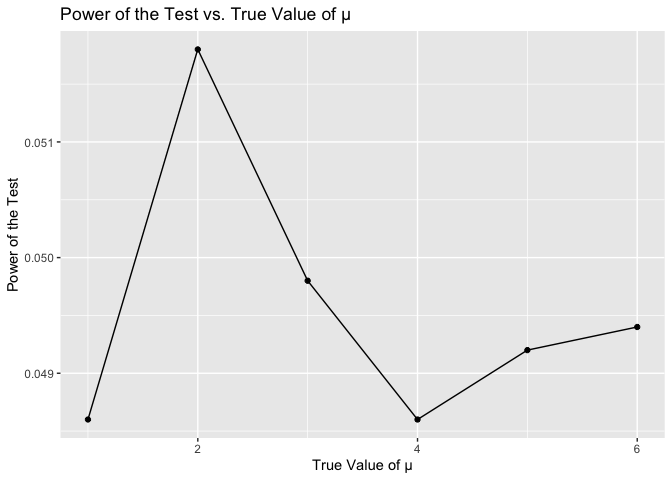
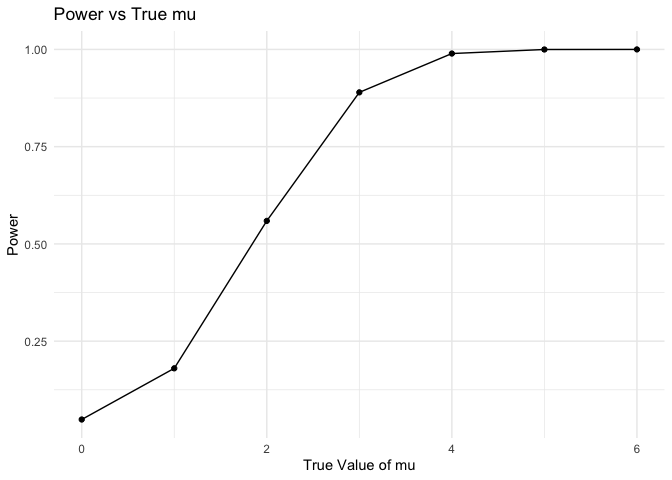
revised Q2

diff --git a/p8105_hw5_sq2266.md b/p8105_hw5_sq2266.md
@@ -57,87 +57,94 @@ sim_res|>
 ## Q2
 
 ``` r
-sim_mean_sd = function(n, mu = 0, sigma = 5) {
+t_sample = function(mu) {
+  sample_data = rnorm(n = 30, mean = mu, sd = 5)
+  t_result = broom::tidy(t.test(sample_data, mu = 0)) |>
+  select(estimate, p.value)
   
-  sim_data = tibble(
-    x = rnorm(n, mean = mu, sd = sigma)
-  )
-  sim_data |>
-    summarize(
-      mu_hat = mean(x),
-      sigma_hat = sd(x)
-    )
-  
-  test_result = 
-    t.test(sim_data[["x"]], mu = 0)
-  
-  result = broom::tidy(test_result)
-  
-  tibble(
-    mu_hat = mean(sim_data[["x"]]),
-    sigma_hat = sd(sim_data[["x"]]),
-    p_value = result[["p.value"]]
-  )
+  return(t_result)
 }
 ```
 
 ``` r
-params = list(
-  n = 30,
-  sigma = 5,
-  alpha = 0.05,
-  mu_values = c(1, 2, 3, 4, 5, 6),
-  num_simulations = 5000
+simulation_df = expand_grid(
+  true_mu = 0:6,     
+  iteration = 1:5000  
 )
 ```
 
 ``` r
-sim_results = map_df(params[["mu_values"]], function(mu)
-{
-  output= vector("list", 5000)
-  
-  for (i in 1:5000) {
-  output[[i]] = sim_mean_sd(30)
-  }
-  bind_rows(output) |>
-  mutate(true_mu = mu)
-})
+simulation_results =
+  simulation_df |>
+  mutate(
+    result = map(true_mu, t_sample)  
+  ) |>
+  unnest(result) 
 ```
 
 ``` r
-power_results = 
-  sim_results |>
+power_sum =
+  simulation_results |>
   group_by(true_mu) |>
   summarize(
-    power = mean(as.numeric(p_value) < params[["alpha"]]),                      
-    avg_estimate = mean(mu_hat),                       
-    avg_estimate_rejected = mean(mu_hat[as.numeric(p_value) < params[["alpha"]]])
+    power = mean(p.value < 0.05),  
+    average_mu = mean(estimate),  
+    .groups = "drop"
   )
 ```
 
+## power of the test plot
+
 ``` r
-ggplot(power_results, aes(x = true_mu, y = power)) +
+power_plot =
+  ggplot(power_sum, aes(x = true_mu, y = power)) +
   geom_line() +
   geom_point() +
-  labs(x = "True Value of μ", y = "Power of the Test",
-       title = "Power of the Test vs. True Value of μ")
+  labs(
+    x = "True Value of mu",
+    y = "Power",
+    title = "Power vs True mu"
+  ) +
+  theme_minimal()
+power_plot
 ```
 
 ![](p8105_hw5_sq2266_files/figure-gfm/unnamed-chunk-8-1.png)<!-- -->
 
+## average and true mean plot
+
 ``` r
-ggplot(power_results, aes(x = true_mu)) +
-  geom_line(aes(y = avg_estimate), color = "blue", linetype = "solid") +
-  geom_point(aes(y = avg_estimate), color = "blue") +
-  geom_line(aes(y = avg_estimate_rejected), color = "red", linetype = "dashed") +
-  geom_point(aes(y = avg_estimate_rejected), color = "red") +
-  labs(x = "True Value of μ", y = "Average Estimate of μ̂",
-       title = "Average μ̂ vs. True Value of μ",
-       subtitle = "Blue: All Estimates, Red: Only Rejected Null Hypothesis") +
-  theme_minimal()
+average_results = 
+  simulation_results |>
+  group_by(true_mu) |>
+  summarize(
+    average_mu = mean(estimate),  
+    average_mu_rej = mean(estimate[p.value < 0.05], na.rm = TRUE),  
+    .groups = "drop"
+  )
 ```
 
-![](p8105_hw5_sq2266_files/figure-gfm/unnamed-chunk-9-1.png)<!-- -->
+``` r
+average_plot =
+  ggplot(average_results) +
+  geom_line(aes(x = true_mu, y = average_mu), color = "lightblue", linewidth = 1) +
+  geom_point(aes(x = true_mu, y = average_mu), color = "lightblue") +
+  geom_line(aes(x = true_mu, y = average_mu_rej), color = "red", linetype = "dashed", linewidth = 1) +
+  geom_point(aes(x = true_mu, y = average_mu_rej), color = "red") +
+  labs(
+    title = "Average mu vs True mu",
+    x = "True Value of mu",
+    y = "Average mu"
+  ) +
+  theme_minimal()
+average_plot
+```
+
+![](p8105_hw5_sq2266_files/figure-gfm/unnamed-chunk-10-1.png)<!-- -->
+\### Explainaiton The sample average of mu across tests where the null
+is rejected is not equal to the true value of mu. Because the small
+sample size of mu, which makes the result bias (maybe distorted by some
+extreme values).
 
 ## Q3
 
@@ -213,7 +220,7 @@ city_prop_test =
   mutate(
     victim_last = str_to_title(victim_last),
     victim_first = str_to_title(victim_first),
-    city_state = paste(city, state, sep = ", ")  # Create city_state by combining city and state
+    city_state = paste(city, state, sep = ", ")  
   ) |>
   drop_na() |>
   
@@ -265,4 +272,4 @@ ggplot(city_prop_test, aes(x = city_state, y = estimated_proportion)) +
   theme(axis.text.x = element_text(angle = 90, hjust = 1))
 ```
 
-![](p8105_hw5_sq2266_files/figure-gfm/unnamed-chunk-18-1.png)<!-- -->
+![](p8105_hw5_sq2266_files/figure-gfm/unnamed-chunk-19-1.png)<!-- -->
